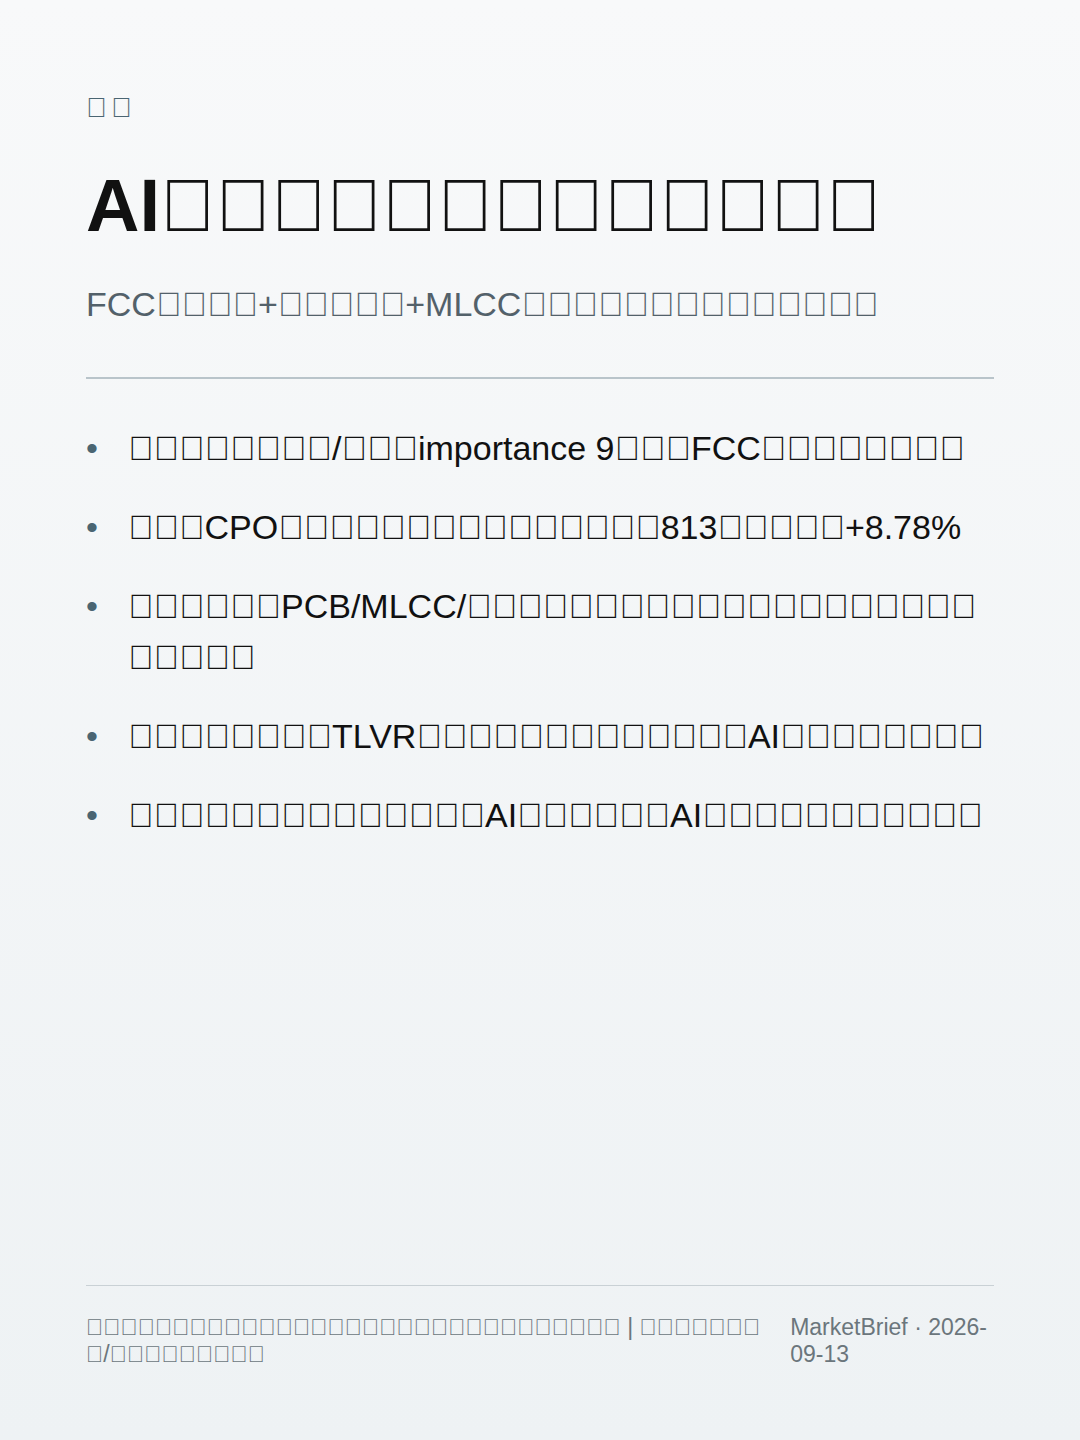
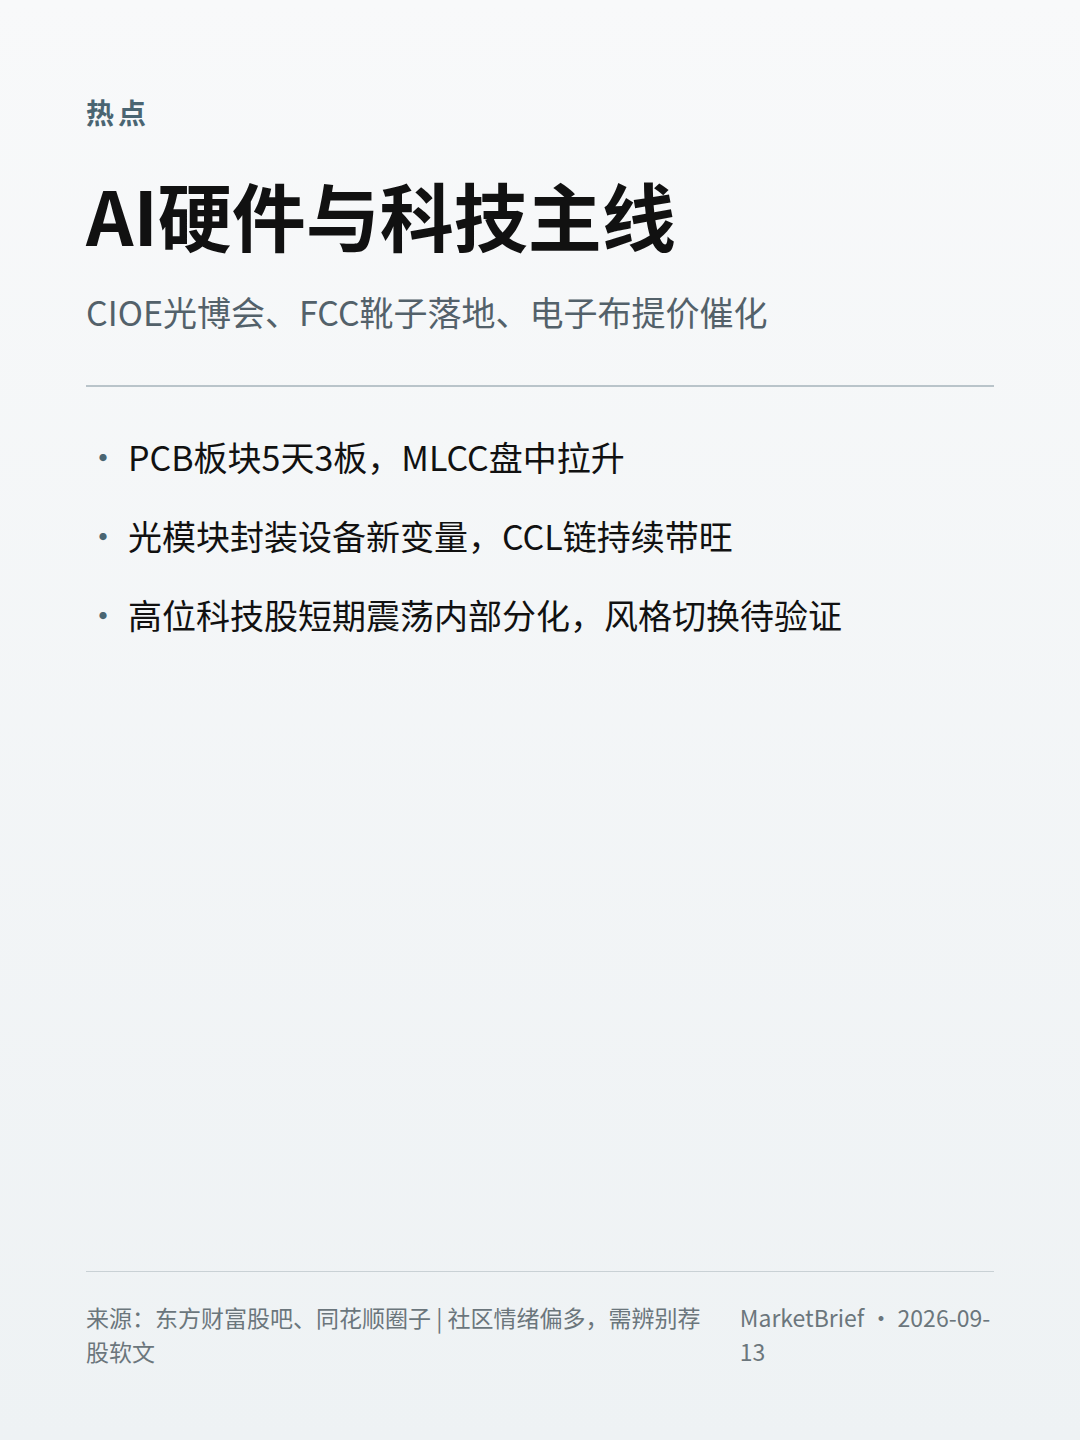
MarketBrief: refresh generated content

diff --git a/output/market-brief/cards/05.html b/output/market-brief/cards/05.html
@@ -2,4 +2,4 @@
 *{box-sizing:border-box}html,body{margin:0;width:1080px;height:1440px;background:#f5f6f7;color:#111;font-family:-apple-system,BlinkMacSystemFont,'Segoe UI','Noto Sans CJK SC','Microsoft YaHei',sans-serif}
 main{width:1080px;height:1440px;padding:92px 86px 72px;display:flex;flex-direction:column;background:linear-gradient(180deg,#f8f9fa,#eef2f4)}
 .k{font-size:28px;letter-spacing:4px;color:#4A6572;font-weight:700;margin-bottom:40px}h1{font-size:74px;line-height:1.14;margin:0 0 30px}.s{font-size:34px;line-height:1.55;color:#53616a;margin-bottom:46px}.r{height:2px;background:#b9c4ca;margin-bottom:44px}ul{list-style:none;padding:0;margin:0;display:grid;gap:28px}li{font-size:34px;line-height:1.5;padding-left:42px;position:relative}li:before{content:'•';position:absolute;left:0;color:#4A6572}.sp{flex:1}footer{border-top:1px solid #c9d1d5;padding-top:28px;color:#6b767c;font-size:23px;display:flex;justify-content:space-between;gap:24px}
-</style></head><body><main><div class="k">结论与风险</div><h1>短期情绪与中期业绩的权重之争</h1><div class="s">AI硬件链偏多信号强但外部风险未消，风格再平衡窗口待验证</div><div class="r"></div><ul><li>偏多信号：AI硬件链三源共振、存储提价业绩超预期、低位板块补涨逻辑成立</li><li>偏空信号：CPI输入性通胀回升、指数调整第9天情绪低迷、美国AI限制再收紧</li><li>关键分歧：CPI解读方向相反、研报样本偏多缺乏对照、科士达帖软文嫌疑</li><li>事实锚点：巨潮资讯网公告为标题级信息，*ST禾信重组存在审批不确定性</li><li>风险提示：社区来源为主观情绪非机构研报，研报仅含摘要标题无正文数据，部分帖子日期为2023年时效性需确认</li></ul><div class="sp"></div><footer><span>来源：全部7个来源 | 本文不构成任何投资建议，股市有风险，投资需谨慎</span><span>MarketBrief · 2026-09-13</span></footer></main></body></html>
+</style></head><body><main><div class="k">结论与风险</div><h1>操作难度加大，关注结构性机会</h1><div class="s">缩量调整下科技主线韧性，但风格切换与外部扰动并存</div><div class="r"></div><ul><li>缩量是短期情绪还是中期趋势尚无定论</li><li>高位科技股内部分化，低位传统行业补涨机会值得关注</li><li>&#x27;十五五&#x27;路线图明确，但政策落地节奏与力度待观察</li></ul><div class="sp"></div><footer><span>来源：多来源交叉验证 | 本文不构成投资建议，投资有风险，决策需谨慎</span><span>MarketBrief · 2026-09-13</span></footer></main></body></html>

diff --git a/output/market-brief/cards/04.html b/output/market-brief/cards/04.html
@@ -2,4 +2,4 @@
 *{box-sizing:border-box}html,body{margin:0;width:1080px;height:1440px;background:#f5f6f7;color:#111;font-family:-apple-system,BlinkMacSystemFont,'Segoe UI','Noto Sans CJK SC','Microsoft YaHei',sans-serif}
 main{width:1080px;height:1440px;padding:92px 86px 72px;display:flex;flex-direction:column;background:linear-gradient(180deg,#f8f9fa,#eef2f4)}
 .k{font-size:28px;letter-spacing:4px;color:#4A6572;font-weight:700;margin-bottom:40px}h1{font-size:74px;line-height:1.14;margin:0 0 30px}.s{font-size:34px;line-height:1.55;color:#53616a;margin-bottom:46px}.r{height:2px;background:#b9c4ca;margin-bottom:44px}ul{list-style:none;padding:0;margin:0;display:grid;gap:28px}li{font-size:34px;line-height:1.5;padding-left:42px;position:relative}li:before{content:'•';position:absolute;left:0;color:#4A6572}.sp{flex:1}footer{border-top:1px solid #c9d1d5;padding-top:28px;color:#6b767c;font-size:23px;display:flex;justify-content:space-between;gap:24px}
-</style></head><body><main><div class="k">事实与分歧</div><h1>CPI靴子：社区与机构的解读温差</h1><div class="s">同一数据，两种解读，短期方向的关键变量</div><div class="r"></div><ul><li>社区（东财股吧）：CPI符合预期但美长债收益率创逾18年新高，中性</li><li>社区（同花顺圈子）：加息落地后短期无估值压制因素，或迎修复窗口，中性</li><li>策略研报：输入性通胀回升，欧央行启动加息，importance 9偏空</li><li>分歧核心：社区认为靴子落地利空出尽，策略研报认为输入性通胀持续压制</li><li>事实锚点：巨潮资讯网9月12日公告——*ST禾信重组、恺英网络参股Wemade、翱捷科技H股申请、中微公司高管减持</li></ul><div class="sp"></div><footer><span>来源：东财股吧、同花顺圈子、东财策略研报、巨潮资讯网 | 公告为标题级信息，未读取PDF正文，无法判断具体细节</span><span>MarketBrief · 2026-09-13</span></footer></main></body></html>
+</style></head><body><main><div class="k">事实与分歧</div><h1>海外通胀与加息预期</h1><div class="s">CPI无意外，但美债收益率新高反映后续担忧</div><div class="r"></div><ul><li>美国8月CPI符合市场预期（事实）</li><li>十年美债收益率接近5%创18年新高（需交叉验证）</li><li>欧央行启动加息，海外流动性收紧担忧上升</li></ul><div class="sp"></div><footer><span>来源：策略研报、东方财富股吧 | 社区情绪偏空，机构对影响程度判断不一</span><span>MarketBrief · 2026-09-13</span></footer></main></body></html>

diff --git a/output/market-brief/cards/03.html b/output/market-brief/cards/03.html
@@ -2,4 +2,4 @@
 *{box-sizing:border-box}html,body{margin:0;width:1080px;height:1440px;background:#f5f6f7;color:#111;font-family:-apple-system,BlinkMacSystemFont,'Segoe UI','Noto Sans CJK SC','Microsoft YaHei',sans-serif}
 main{width:1080px;height:1440px;padding:92px 86px 72px;display:flex;flex-direction:column;background:linear-gradient(180deg,#f8f9fa,#eef2f4)}
 .k{font-size:28px;letter-spacing:4px;color:#4A6572;font-weight:700;margin-bottom:40px}h1{font-size:74px;line-height:1.14;margin:0 0 30px}.s{font-size:34px;line-height:1.55;color:#53616a;margin-bottom:46px}.r{height:2px;background:#b9c4ca;margin-bottom:44px}ul{list-style:none;padding:0;margin:0;display:grid;gap:28px}li{font-size:34px;line-height:1.5;padding-left:42px;position:relative}li:before{content:'•';position:absolute;left:0;color:#4A6572}.sp{flex:1}footer{border-top:1px solid #c9d1d5;padding-top:28px;color:#6b767c;font-size:23px;display:flex;justify-content:space-between;gap:24px}
-</style></head><body><main><div class="k">研报</div><h1>存储提价与风格再平衡：业绩超预期但板块分化</h1><div class="s">视源股份/帝科股份存储放量，低位补涨窗口是否打开</div><div class="r"></div><ul><li>存储提价：视源股份、帝科股份中报提及存储业务快速放量/提价，业绩超预期</li><li>板块分化：风华高科涨停+10%、金安国纪+7.86%，但长鑫科技-0.82%</li><li>风格再平衡：有色、化工、券商、创新药、储能等低位板块有望阶段性补涨</li><li>储能：科士达中报净利增106%-152%，但评论区质疑软文嫌疑</li><li>氟化工：昊华科技景气兑现，永和股份制冷剂高景气+氟聚合物放量</li></ul><div class="sp"></div><footer><span>来源：东财研报聚合页、东财行业研报、雪球、同花顺圈子 | 科士达帖需交叉验证，研报样本偏多缺乏对照</span><span>MarketBrief · 2026-09-13</span></footer></main></body></html>
+</style></head><body><main><div class="k">研报</div><h1>中报高增板块扫描</h1><div class="s">光伏反内卷、电池储能双增、氟化工景气兑现</div><div class="r"></div><ul><li>光伏：隆基绿能BC组件高增、通威出海比例提升</li><li>电池：亿纬锂能动力+储能双增、恩捷隔膜盈利向好</li><li>氟化工：昊华科技3+1业务释放、永和股份制冷剂高景气</li></ul><div class="sp"></div><footer><span>来源：东方财富研报（2026-09-11至13）| 评级集中于买入/增持，可能存在选择性偏差</span><span>MarketBrief · 2026-09-13</span></footer></main></body></html>

diff --git a/output/market-brief/cards/02.html b/output/market-brief/cards/02.html
@@ -2,4 +2,4 @@
 *{box-sizing:border-box}html,body{margin:0;width:1080px;height:1440px;background:#f5f6f7;color:#111;font-family:-apple-system,BlinkMacSystemFont,'Segoe UI','Noto Sans CJK SC','Microsoft YaHei',sans-serif}
 main{width:1080px;height:1440px;padding:92px 86px 72px;display:flex;flex-direction:column;background:linear-gradient(180deg,#f8f9fa,#eef2f4)}
 .k{font-size:28px;letter-spacing:4px;color:#4A6572;font-weight:700;margin-bottom:40px}h1{font-size:74px;line-height:1.14;margin:0 0 30px}.s{font-size:34px;line-height:1.55;color:#53616a;margin-bottom:46px}.r{height:2px;background:#b9c4ca;margin-bottom:44px}ul{list-style:none;padding:0;margin:0;display:grid;gap:28px}li{font-size:34px;line-height:1.5;padding-left:42px;position:relative}li:before{content:'•';position:absolute;left:0;color:#4A6572}.sp{flex:1}footer{border-top:1px solid #c9d1d5;padding-top:28px;color:#6b767c;font-size:23px;display:flex;justify-content:space-between;gap:24px}
-</style></head><body><main><div class="k">热点</div><h1>AI硬件链：三源共振的偏多信号</h1><div class="s">FCC靴子落地+电子布提价+MLCC供需缺口，中报催化后轮动窗口</div><div class="r"></div><ul><li>东财股吧：光通信/光模块importance 9偏多，FCC靴子落地缓解担忧</li><li>雪球：CPO板块热度标签明确，中际旭创热度813、长飞光纤+8.78%</li><li>同花顺圈子：PCB/MLCC/光模块轮动活跃，中报业绩催化后核心标的或迎上车机会</li><li>研报端：顺络电子TLVR电感、英维克液冷、用友网络AI研发均获偏多评级</li><li>分歧：策略研报指出美国对中国AI限制再收紧，AI链涨价推动价格数据回升</li></ul><div class="sp"></div><footer><span>来源：东财股吧、雪球、同花顺圈子、东财研报聚合页、东财行业研报 | 研报样本均为买入/增持，存在样本偏差</span><span>MarketBrief · 2026-09-13</span></footer></main></body></html>
+</style></head><body><main><div class="k">热点</div><h1>AI硬件与科技主线</h1><div class="s">CIOE光博会、FCC靴子落地、电子布提价催化</div><div class="r"></div><ul><li>PCB板块5天3板，MLCC盘中拉升</li><li>光模块封装设备新变量，CCL链持续带旺</li><li>高位科技股短期震荡内部分化，风格切换待验证</li></ul><div class="sp"></div><footer><span>来源：东方财富股吧、同花顺圈子 | 社区情绪偏多，需辨别荐股软文</span><span>MarketBrief · 2026-09-13</span></footer></main></body></html>

diff --git a/output/market-brief/cards/01.html b/output/market-brief/cards/01.html
@@ -2,4 +2,4 @@
 *{box-sizing:border-box}html,body{margin:0;width:1080px;height:1440px;background:#f5f6f7;color:#111;font-family:-apple-system,BlinkMacSystemFont,'Segoe UI','Noto Sans CJK SC','Microsoft YaHei',sans-serif}
 main{width:1080px;height:1440px;padding:92px 86px 72px;display:flex;flex-direction:column;background:linear-gradient(180deg,#f8f9fa,#eef2f4)}
 .k{font-size:28px;letter-spacing:4px;color:#4A6572;font-weight:700;margin-bottom:40px}h1{font-size:74px;line-height:1.14;margin:0 0 30px}.s{font-size:34px;line-height:1.55;color:#53616a;margin-bottom:46px}.r{height:2px;background:#b9c4ca;margin-bottom:44px}ul{list-style:none;padding:0;margin:0;display:grid;gap:28px}li{font-size:34px;line-height:1.5;padding-left:42px;position:relative}li:before{content:'•';position:absolute;left:0;color:#4A6572}.sp{flex:1}footer{border-top:1px solid #c9d1d5;padding-top:28px;color:#6b767c;font-size:23px;display:flex;justify-content:space-between;gap:24px}
-</style></head><body><main><div class="k">封面</div><h1>AI硬件链热捧与CPI靴子：社区与机构的温差</h1><div class="s">三源共振偏多 vs 策略研报偏空，温差有多大</div><div class="r"></div><ul><li>光模块/CPO/PCB/MLCC：社区importance 9偏多，研报importance 9偏多，三源一致</li><li>指数调整第9天，跌破3915点，社区焦虑与策略研报偏空共振</li><li>CPI解读方向相反：社区认为靴子落地利空出尽，策略研报认为输入性通胀持续压制</li></ul><div class="sp"></div><footer><span>来源：东财股吧、雪球、同花顺圈子、东财研报聚合页、东财策略研报 | 不构成投资建议</span><span>MarketBrief · 2026-09-13</span></footer></main></body></html>
+</style></head><body><main><div class="k">封面</div><h1>缩量震荡中的结构性机会</h1><div class="s">科技主线韧性、海外通胀压力与中报高增板块交织</div><div class="r"></div><ul><li>沪指跌破3915点前低，连续第9天调整</li><li>AI硬件逆势活跃：PCB 5天3板、MLCC拉升</li><li>美债收益率接近5%创18年新高，欧央行加息</li></ul><div class="sp"></div><footer><span>来源：东方财富股吧、同花顺圈子、策略研报 | 2026-09-13</span><span>MarketBrief · 2026-09-13</span></footer></main></body></html>

diff --git a/output/market-brief/latest.md b/output/market-brief/latest.md
@@ -1,47 +1,40 @@
-# AI硬件链热捧与CPI靴子：社区与机构的温差有多大
+# 缩量震荡下的结构性机会：科技主线韧性、海外通胀压力与中报高增板块
 
-> 光模块、CPO、存储提价三箭齐发，三大社区来源与近60篇研报一致看多AI硬件链；但策略研报对CPI与加息预期保持警惕，社区情绪与机构判断出现明显分化。指数调整第9天，风格再平衡窗口是否打开？
+> A股连续调整、成交萎缩，但AI硬件逆势活跃；美债收益率逼近5%、欧央行加息，外部压力与内部'十五五'路线图交织。光伏、电池、氟化工中报高增提供结构性机会，但高位科技股短期震荡内部分化，操作难度加大。
 
-## 一、AI硬件链：三源共振的偏多信号
+## 市场现状：缩量调整，情绪低迷
 
-光通信与CPO板块是当前社区与研报端最一致的偏多方向。东财股吧将光通信/光模块列为importance 9的偏多主题，信号包括FCC靴子落地缓解担忧、电子布提价加速、MLCC供需缺口延续。雪球热股榜上CPO板块热度标签明确出现，中际旭创热度813排第十，长飞光纤涨8.78%。同花顺圈子同样给出importance 9的偏多判断，PCB、MLCC、光模块等AI硬件方向轮动活跃。
+沪指跌破3915点前低，连续第9天调整，超4800只个股下跌，跌停数量增多。两市成交量萎缩1万亿以上，仅科创50方向局部抱团，节奏和方向要求高，操作难度大。同花顺圈子投顾普遍描述'反弹拉权重装表面'，东方财富股吧情绪分化，部分帖子含荐股软文，需辨别。
 
-研报端同样聚焦。东财研报聚合页29篇个股研报中，顺络电子TLVR电感与钽电容构筑AI增量、英维克液冷龙头股权激励、用友网络加大AI研发均获偏多评级。行业研报30篇中，AI与智能科技方向importance 9偏多，AI模型密集迭代价格下行、办公应用起量、AI驱动SDLC安全生态构建。
+多家券商晨报/日报均提及缩量、不足千家上涨、等待外部靴子落地，机构观点偏中性观望。
 
-但需注意：策略研报指出美国对中国AI限制再收紧，AI链涨价推动价格数据回升，这与社区偏多形成分歧。研报样本均为买入/增持，缺乏中性或偏空观点，存在样本偏差。
+## 科技主线：逆势韧性，但内部分化
 
-## 二、大盘情绪：社区焦虑与研报谨慎的共振
+AI硬件方向逆势活跃：PCB板块5天3板、MLCC盘中拉升、光模块受CIOE光博会与FCC靴子落地催化。华金、东吴、源达等一致认为科技仍是主线，2026H1全A盈利加速上行。研报覆盖AI液冷（英维克股权激励、五洋自控液冷收购）、存储提价（视源股份）、增量元件（顺络电子TLVR电感与钽电容）等细分方向。
 
-指数调整已进入第9天，跌破前低3915点。东财股吧多帖反映焦虑沮丧，高价股补跌拖累股指，恒生超预期下跌。同花顺圈子指出反弹靠权重托但情绪未好转，跌停数量增多，横竖操作难度大。策略研报同样给出偏空信号：三大指数收绿，两市不足千家上涨，等待外部靴子落地。
+但高位科技股进入短期震荡内部分化，风格切换是否已启动存在分歧。低位传统行业（有色、化工、券商、创新药、储能）逆市上涨，补涨机会值得关注。
 
-然而研报端中报业绩偏多——全A盈利加速上行，科技与资源景气引领，港股业绩改善幅度较大。策略端讨论哑铃策略持续性，分歧在于短期情绪与中期业绩的权重。
+## 海外通胀：加息前奏，压力待消化
 
-## 三、存储提价：业绩超预期但板块分化
+美国8月CPI符合市场预期，但十年美债收益率接近5%创18年新高，欧央行启动加息。策略研报将海外通胀与加息列为短期扰动因素，持续性待观察。社区情绪偏空，但同花顺圈子认为加息落地后估值压制因素消除。
 
-视源股份、帝科股份中报均提及存储业务快速放量/提价，业绩超预期。雪球半导体/存储板块出现分化：风华高科涨停+10%、金安国纪+7.86%，但长鑫科技-0.82%。存储提价的持续性缺乏产业链验证，板块内部分化值得关注。
+美国对华AI限制再收紧（国信策略周报专门跟踪），对科技板块构成额外压力。
 
-## 四、CPI靴子：社区与机构的解读温差
+## 中报高增：光伏、电池、氟化工
 
-8月CPI数据公布后，社区与机构出现明显分歧。东财股吧认为CPI符合预期但美长债收益率创逾18年新高，给出中性判断。同花顺圈子认为加息落地后短期将无估值压制因素，市场或迎修复窗口，同样中性。但策略研报给出importance 9的偏空信号：输入性通胀回升，欧央行启动加息。
+2026-09-11至13日多家券商集中发布中报点评：光伏反内卷与出海（隆基绿能BC组件高增、通威出海比例提升）、电池储能双增（亿纬锂能动力+储能双增、恩捷隔膜盈利向好）、氟化工景气兑现（昊华科技氟化工3+1业务释放、永和股份制冷剂高景气）。整体评级偏多，但需注意评级集中于买入/增持，可能存在选择性偏差。
 
-对CPI的解读方向相反——社区认为靴子落地后利空出尽，策略研报认为输入性通胀回升构成持续压制。这一分歧是短期市场方向的关键变量。
+## 政策与公告：'十五五'路线图明确
 
-## 五、风格再平衡：低位补涨窗口是否打开
+万联证券指出以投融资综合改革为牵引，'十五五'路线图明确，港股中报业绩改善幅度较大。巨潮公告涵盖恺英网络拟间接参股韩国Wemade、*ST禾信推进收购上海量羲技术、翱捷科技递交H股上市申请等事件，但具体条款和金额需查阅公告正文。
 
-同花顺圈子指出低位优质传统行业逆市上涨，业绩正增长的有色、化工、券商、创新药、储能等有望阶段性补涨。东财股吧将储能板块列为importance 7偏多，科士达中报净利同比增106%-152%被称下一个宁德时代。但评论区质疑软文嫌疑，需交叉验证。
+## 分歧与不确定性
 
-研报端同样偏多：恩捷股份隔膜盈利能力持续向好，亿纬锂能动力+储能出货高增，昊华科技氟化工景气兑现，永和股份制冷剂高景气+氟聚合物放量。但研报样本偏多，缺乏中性或偏空对照。
-
-## 六、事实锚点与不确定性
-
-巨潮资讯网9月12日公告显示：*ST禾信推进重大资产重组，恺英网络拟间接参股韩国Wemade，翱捷科技递交H股上市申请，映翰通完成限制性股票首次授予，中公教育管理层增持计划时间过半，中微公司董事及高管减持股份。这些为公告标题级信息，未读取PDF正文，无法判断具体交易金额、估值、业绩承诺等关键细节。
-
-中微公司高管减持为偏空信号（importance 4），*ST禾信重组存在审批不确定性。
+缩量是短期情绪还是中期趋势尚无定论；高位科技股短期震荡内部分化，风格切换是否已启动存在分歧；海外加息预期与AI限制为短期扰动因素，持续性待观察；中报高增板块评级可能存在选择性偏差；政策落地节奏与力度待观察。
 
 ## 来源
 
 - [eastmoney-hot](https://hfmgb.eastmoney.com/) · community
-- [xueqiu-hot](https://xueqiu.com/hot/stock) · community
 - [10jqka-community](https://t.10jqka.com.cn/) · community
 - [eastmoney-report](https://data.eastmoney.com/report/) · research
 - [eastmoney-industry](https://data.eastmoney.com/report/industry.jshtml) · research
@@ -50,7 +43,7 @@
 
 ---
 
-本文基于公开社区讨论与研报摘要标题整理，社区来源为主观情绪，非机构研报；研报仅含摘要标题，无正文数据，无法验证具体业绩数字；研报评级均为买入/增持，缺乏中性或偏空观点，存在样本偏差；部分帖子日期为2023年，时效性需确认；科士达帖评论区质疑软文嫌疑，需交叉验证。本文不构成任何投资建议，股市有风险，投资需谨慎。
+本文仅为市场信息整理与分析，不构成任何投资建议。社区情绪与投顾观点仅供参考，研报仅代表机构判断，官方公告需查阅全文。投资有风险，决策需谨慎。
 
-生成时间：2026-09-13T02:38:19+00:00  
-模型：`SenseNova` · 调用 8 次 · Token 31914
+生成时间：2026-09-13T03:21:21+00:00  
+模型：`SenseNova` · 调用 7 次 · Token 27165
